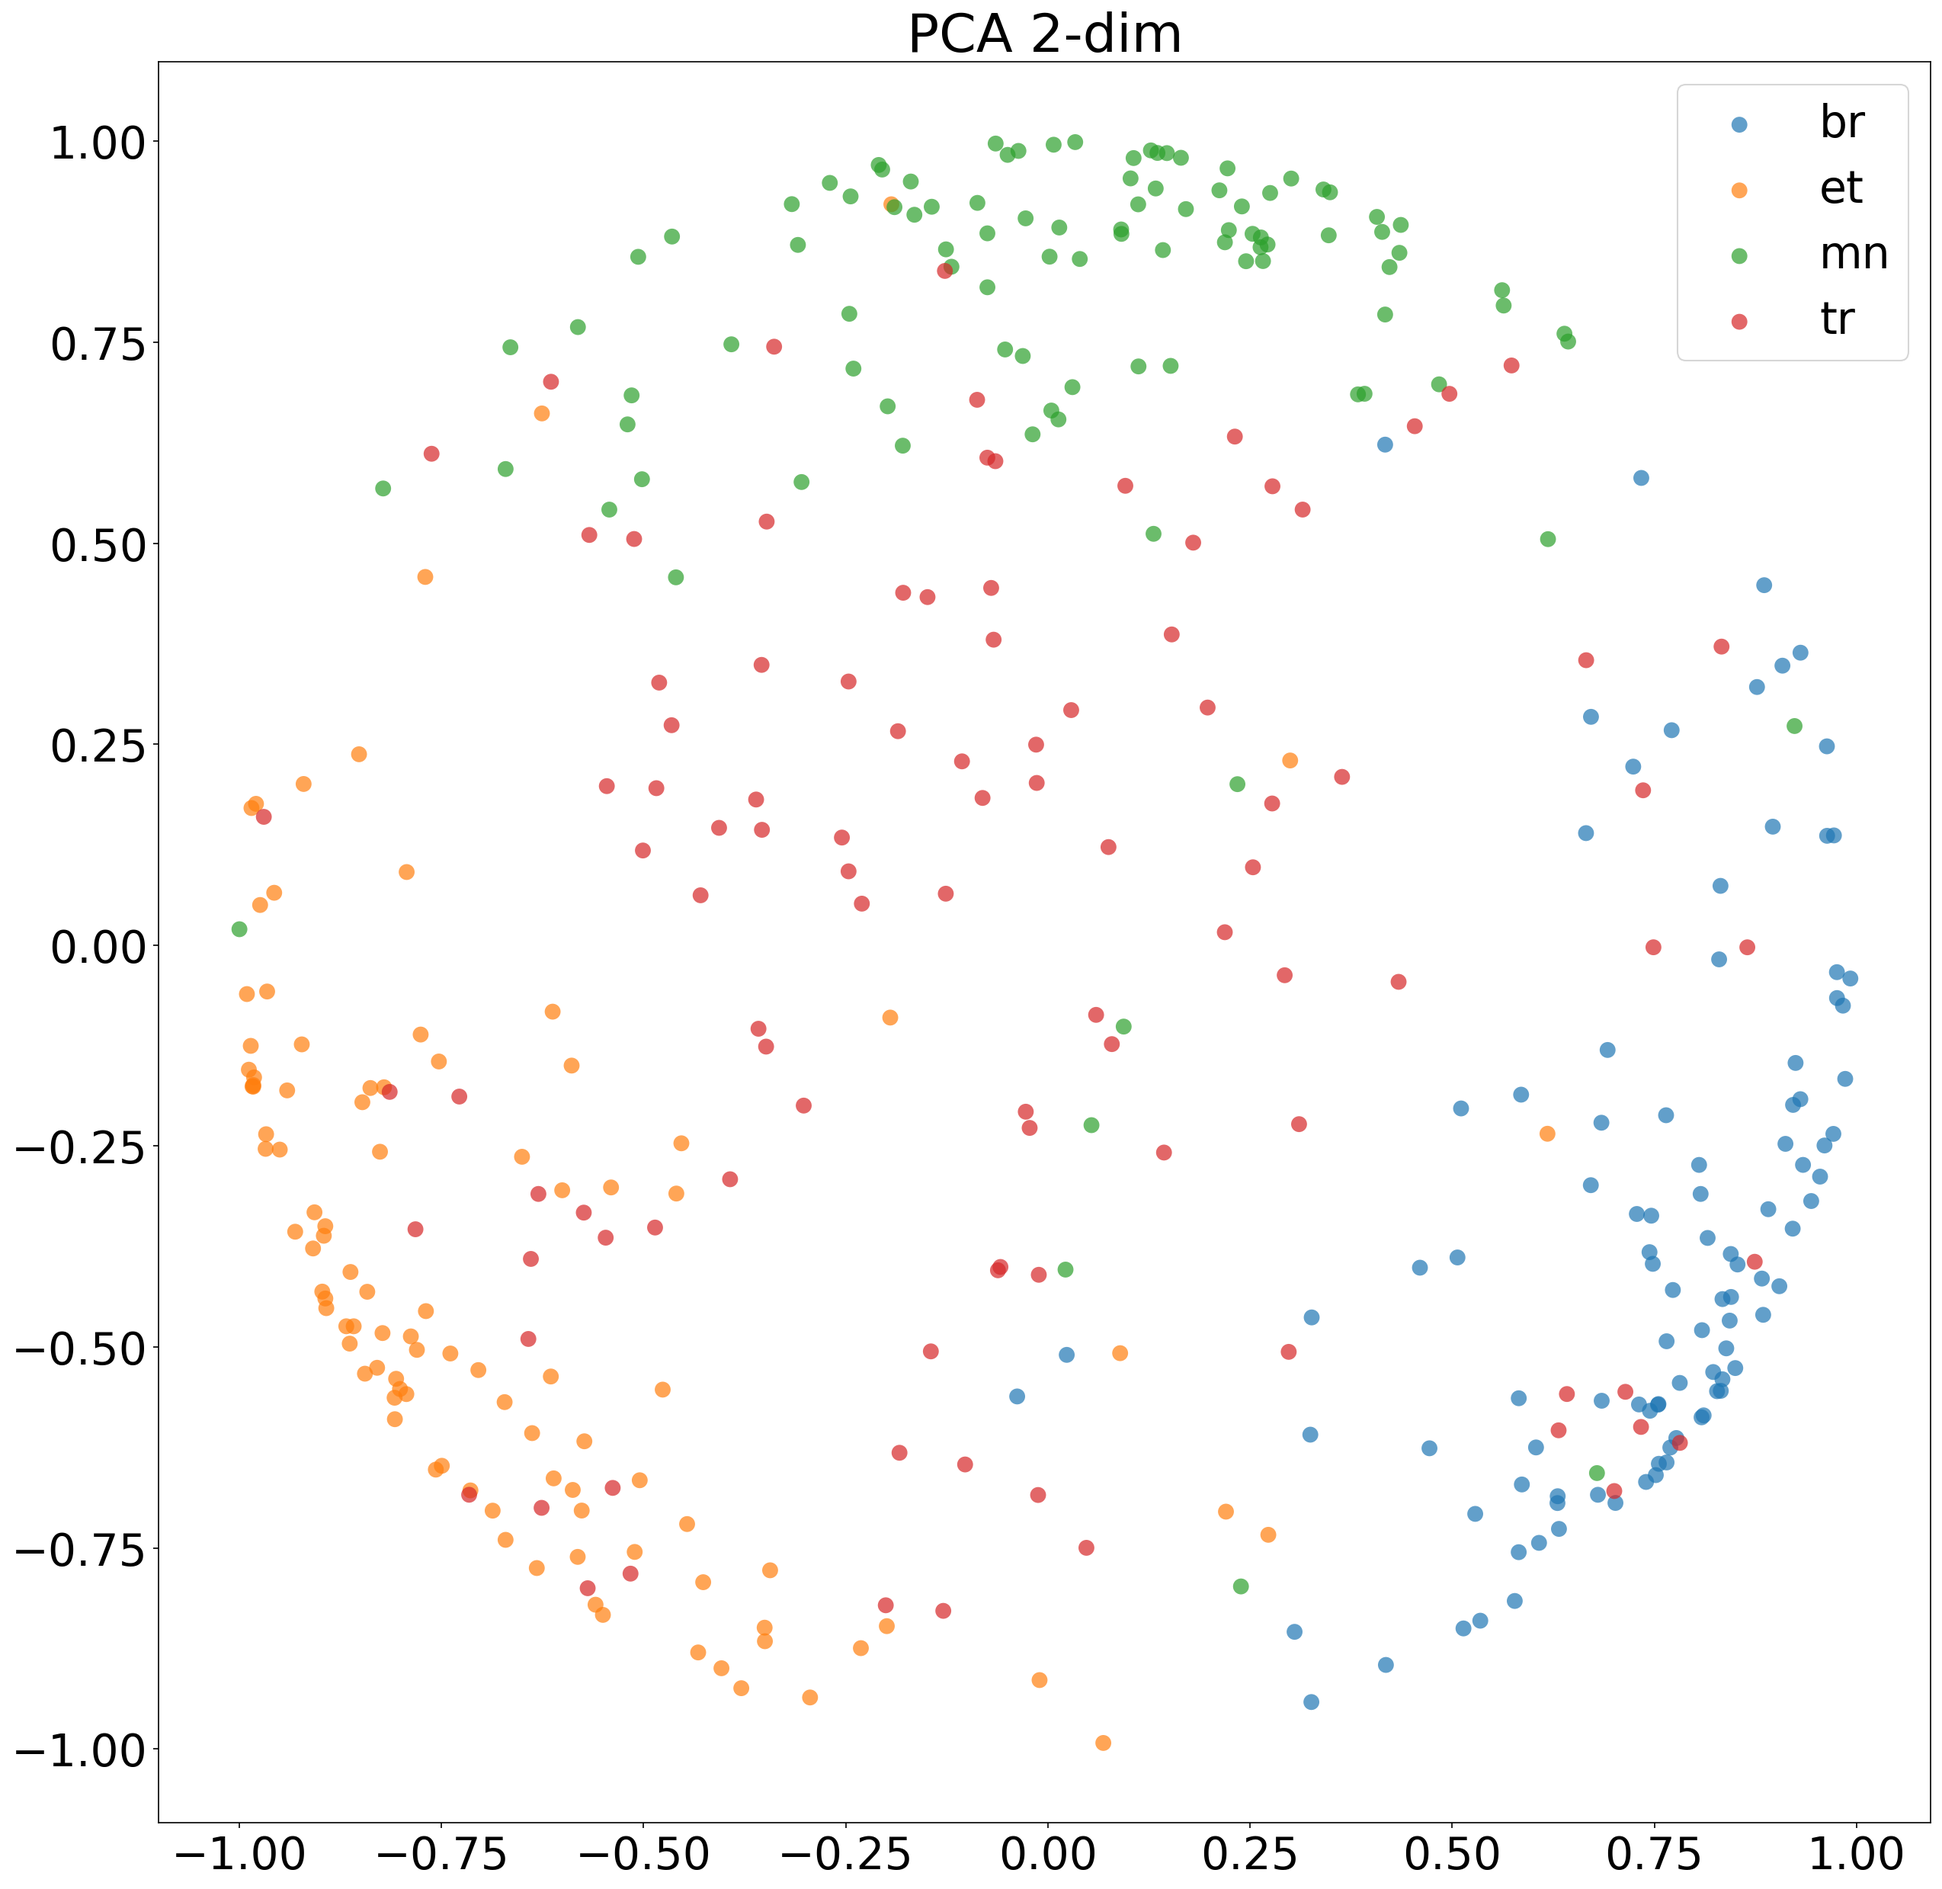
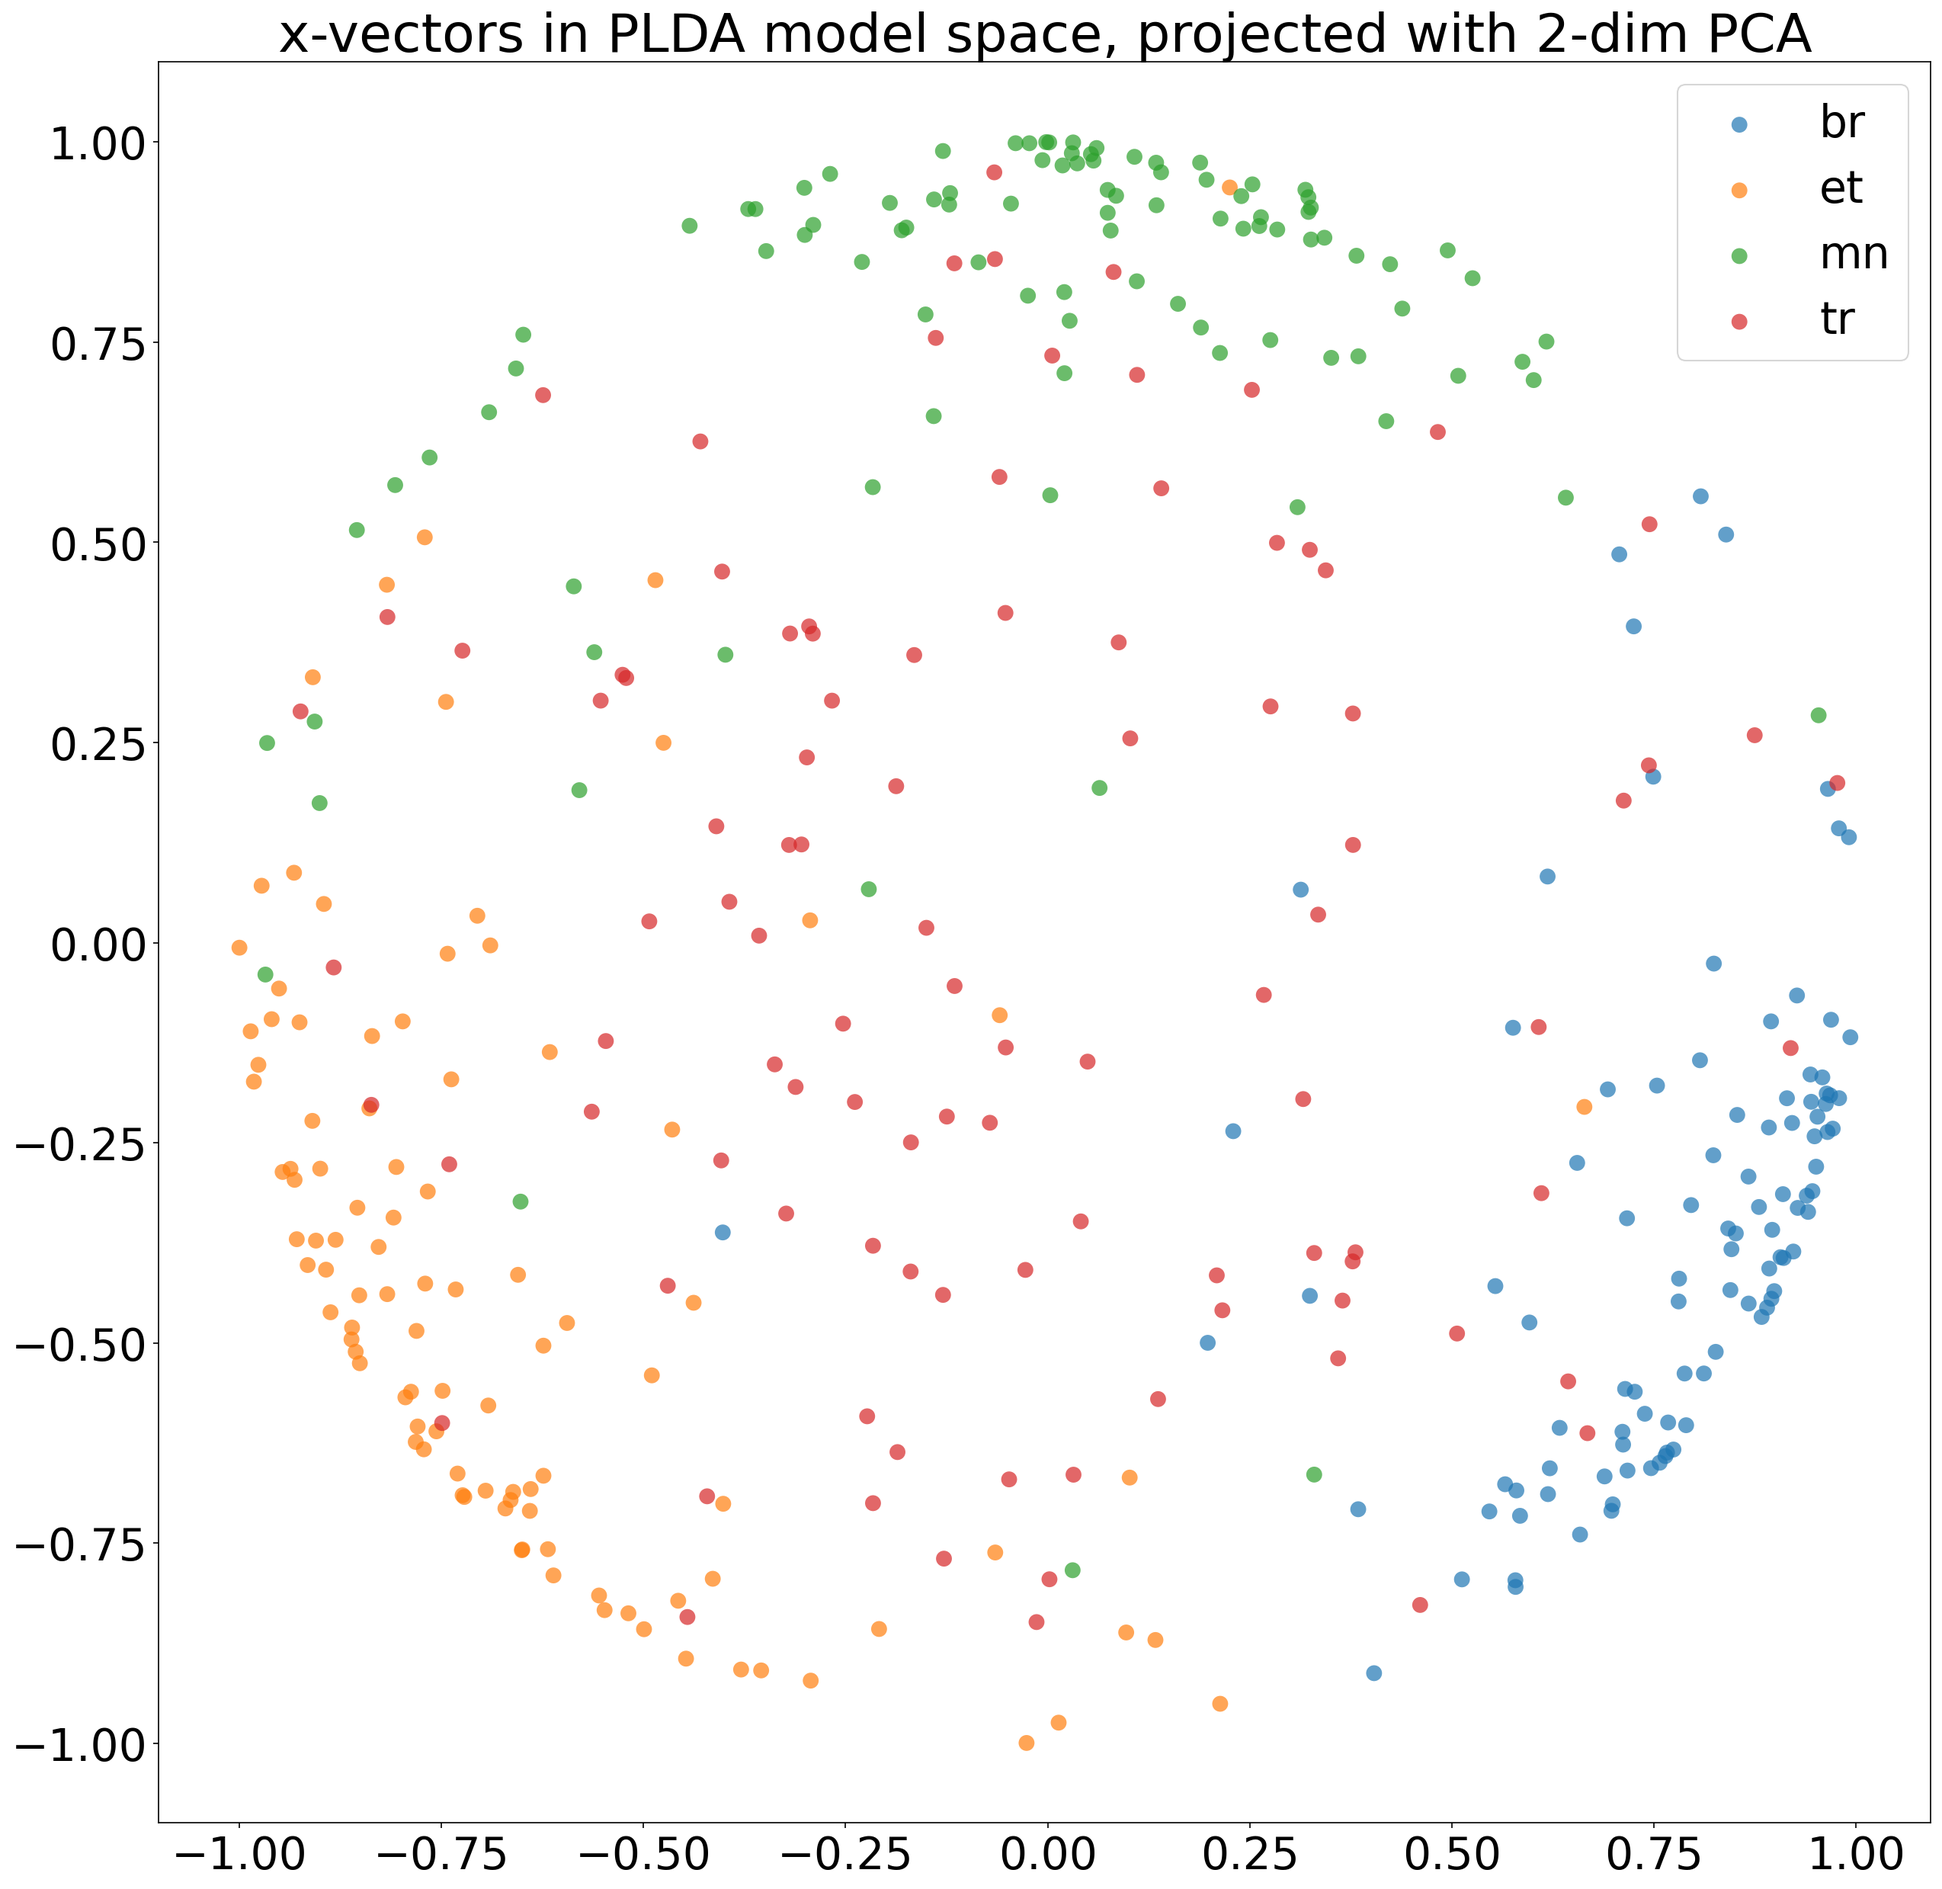
increase example PLDA pre-processing coefs and update images

diff --git a/lidbox/embeddings/sklearn_utils.py b/lidbox/embeddings/sklearn_utils.py
@@ -38,7 +38,7 @@ def pca_scatterplot_by_label(label2sample, pca):
         for (label, vecs), color in zip(label2sample.items(), categorical_cmap):
             vecs = pca.transform(vecs)
             ax.scatter(vecs[:,0], vecs[:,1], c=[color], label=label, edgecolors='none', **scatter_kw)
-            ax.set_title("PCA 2-dim")
+            ax.set_title("x-vectors in PLDA model space, projected with 2-dim PCA")
         # ax.set_frame_on(False)
     else:
         fig = plt.figure(figsize=(20, 20))
@@ -46,7 +46,7 @@ def pca_scatterplot_by_label(label2sample, pca):
         for (label, vecs), color in zip(label2sample.items(), categorical_cmap):
             vecs = pca.transform(vecs)
             ax.scatter3D(vecs[:,0], vecs[:,1], zs=vecs[:,2], c=[color], label=label, **scatter_kw)
-        ax.text2D(0.5, 1.0, "PCA 3-dim", transform=ax.transAxes)
+        ax.text2D(0.5, 1.0, "x-vectors in PLDA model space, projected with 3-dim PCA", transform=ax.transAxes)
     ax.legend()
     return fig
 
